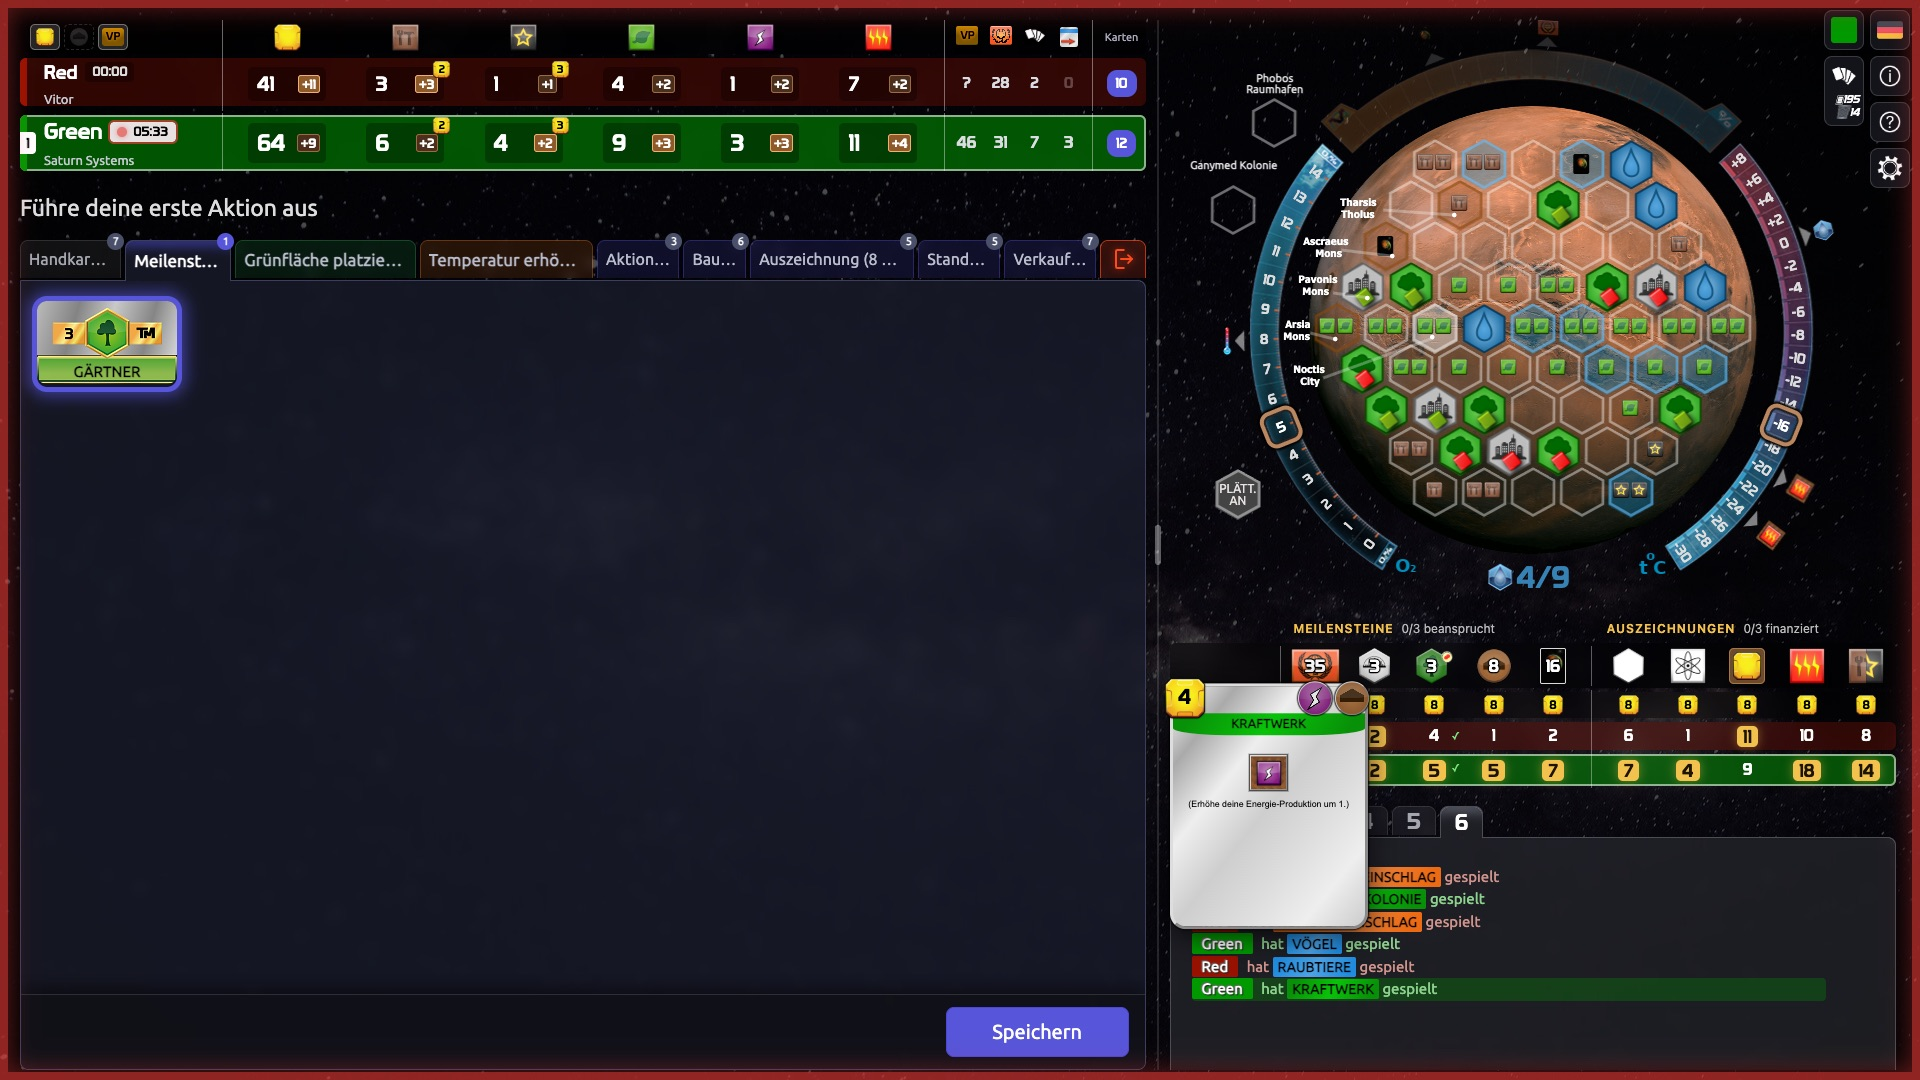
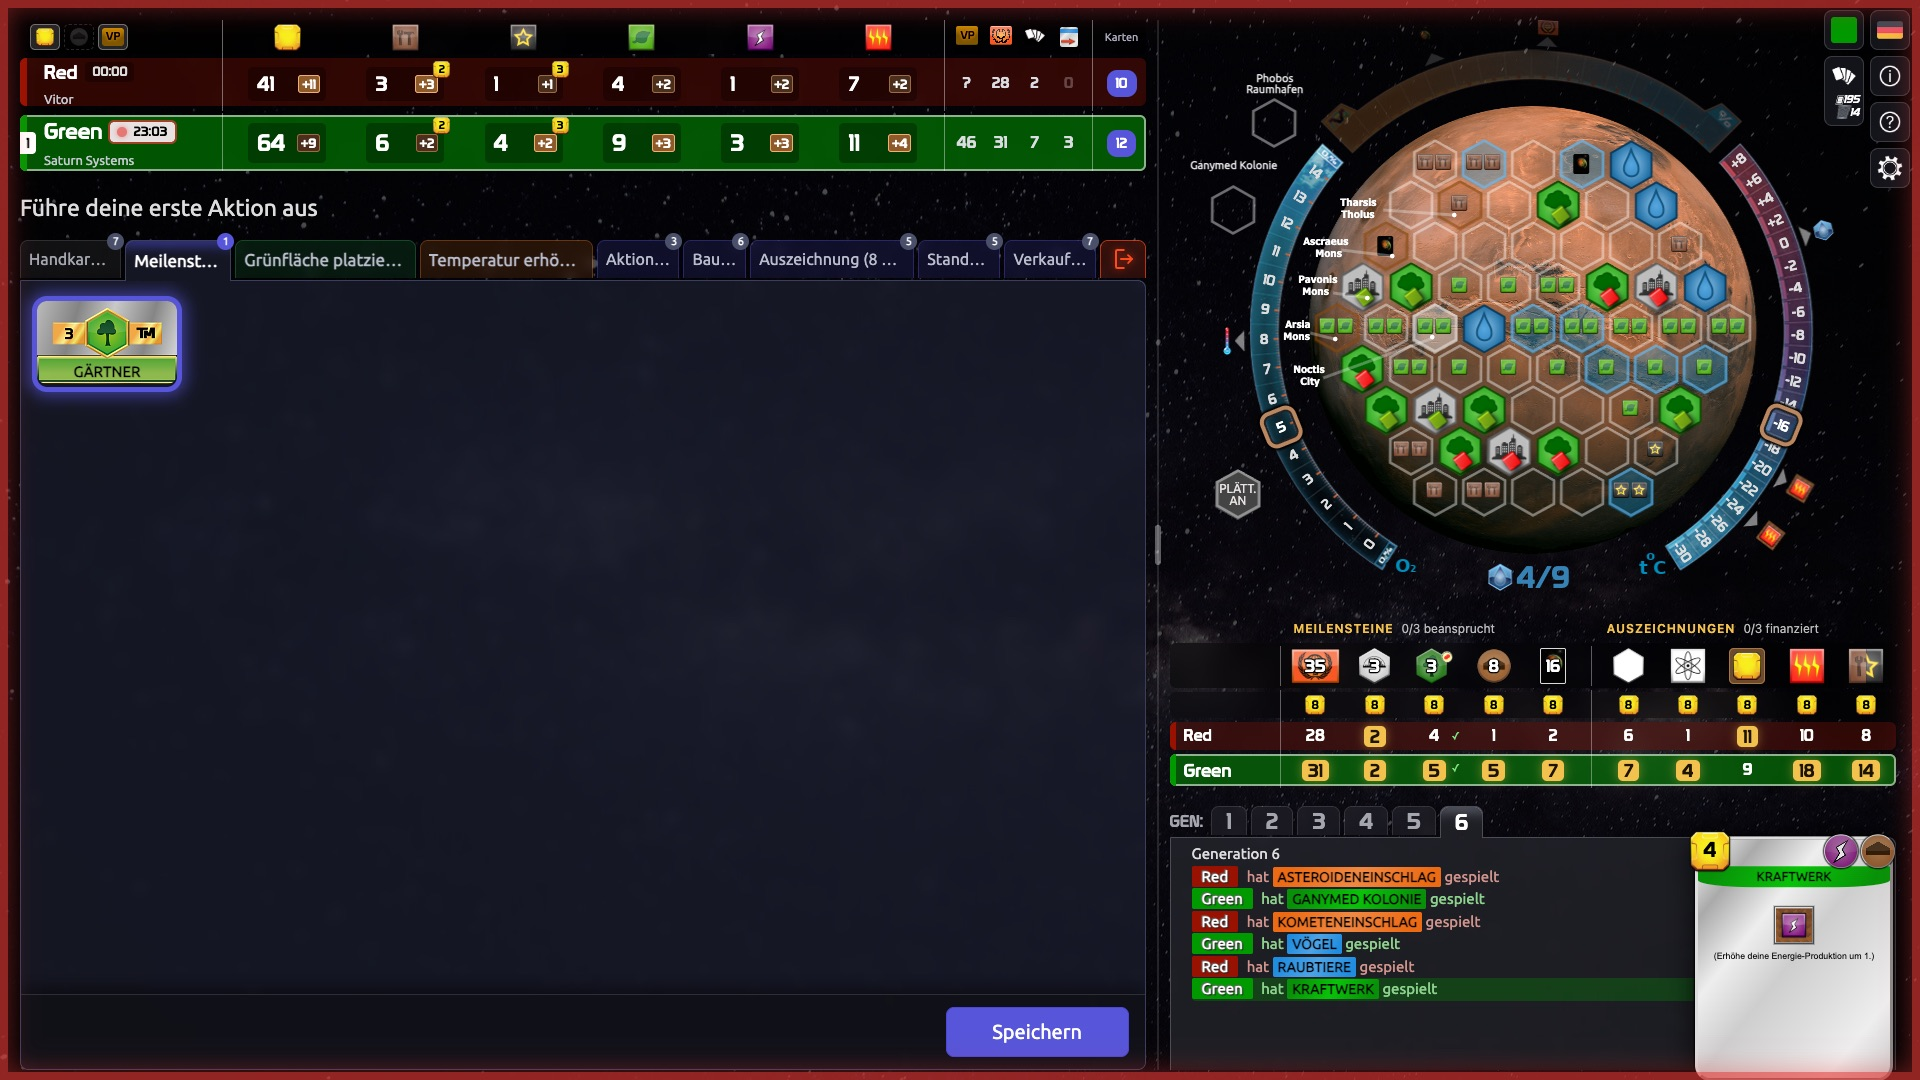
Log-Vorschau wieder am rechten Rand des Logs statt oben links
Seit CardPanel ein Teleport als Wurzel hat, kam die Position (style) nicht mehr am Panel an. Jetzt per inheritAttrs:false
und v-bind="$attrs" durchgereicht, mit Test. Vertikal mittig im sichtbaren Teil des Logs. README-Screenshot erneuert.

Claude-Session: https://claude.ai/code/session_01C1oybEKnToC6Vw4kK29Pku

Changed region(s): [[0.5938, 0.6111, 0.7188, 0.8861], [0.875, 0.7639, 1.0, 1.0]]

diff --git a/tests/client/components/logpanel/CardPanel.spec.ts b/tests/client/components/logpanel/CardPanel.spec.ts
@@ -4,6 +4,8 @@ import {globalConfig} from '../getLocalVue';
 import CardPanel from '@/client/components/logpanel/CardPanel.vue';
 import {LogMessage} from '@/common/logs/LogMessage';
 import {LogMessageType} from '@/common/logs/LogMessageType';
+import {LogMessageDataType} from '@/common/logs/LogMessageDataType';
+import {CardName} from '@/common/cards/CardName';
 
 describe('CardPanel', () => {
   it('mounts without errors', () => {
@@ -15,5 +17,25 @@ describe('CardPanel', () => {
       },
     });
     expect(wrapper.exists()).to.be.true;
+  });
+});
+
+describe('CardPanel attributes', () => {
+  // Die Wurzel ist ein Teleport: die Position der Hover-Vorschau (style) muss trotzdem am Panel landen
+  it('passes style to the panel', () => {
+    const wrapper = shallowMount(CardPanel, {
+      ...globalConfig,
+      // Teleport-Inhalt an Ort und Stelle rendern, sonst ist das Panel nicht auffindbar
+      global: {...globalConfig.global, stubs: {teleport: true}},
+      props: {
+        message: new LogMessage(LogMessageType.DEFAULT, '${0}', [{type: LogMessageDataType.CARD, value: CardName.POWER_PLANT}]),
+        players: [],
+        floating: true,
+      },
+      attrs: {style: 'top: 12px; right: 34px;'},
+    });
+    const panel = wrapper.find('.card-panel');
+    expect(panel.attributes('style')).to.contain('top: 12px');
+    expect(panel.attributes('style')).to.contain('right: 34px');
   });
 });

diff --git a/src/client/components/logpanel/CardPanel.vue b/src/client/components/logpanel/CardPanel.vue
@@ -1,7 +1,8 @@
 <template>
   <!-- Modal an body hängen: im Log (eigener Stacking-Context) läge es sonst unter den Icons oben rechts -->
   <Teleport to="body" :disabled="!modal">
-  <div :class="['card-panel', {'card-panel--floating': floating, 'card-panel--modal': modal}]" v-if="message !== undefined && show">
+  <!-- Wurzel ist das Teleport, deshalb landen Attribute (z. B. die Position der Hover-Vorschau als style) nicht von selbst hier -->
+  <div :class="['card-panel', {'card-panel--floating': floating, 'card-panel--modal': modal}]" v-bind="$attrs" v-if="message !== undefined && show">
     <!-- Hover-Vorschau schließt sich beim Verlassen der Zeile selbst, braucht keinen Button -->
     <AppButton v-if="!floating" size="big" type="close" :disableOnServerBusy="false" @click="hideMe" align="right"/>
     <div id="log_panel_card" class="cardbox" v-for="name in cards" :key="name">
@@ -34,6 +35,8 @@ import {logMessageCards, logMessageColonies, logMessageGlobalEvents} from '@/cli
 
 export default defineComponent({
   name: 'LogPanel',
+  // Attribute gibt das Template selbst an das Panel weiter (Teleport als Wurzel)
+  inheritAttrs: false,
   props: {
     message: {
       type: Object as () => LogMessage,

diff --git a/src/client/components/logpanel/LogPanel.vue b/src/client/components/logpanel/LogPanel.vue
@@ -122,8 +122,11 @@ export default defineComponent({
       // (position: fixed), damit sie nicht vom Spalten-Overflow abgeschnitten wird
       const rowElement = event.currentTarget as HTMLElement;
       const panel = (rowElement.closest('.log-panel') ?? rowElement).getBoundingClientRect();
+      // Mitte des sichtbaren Teils: ragt das Log unten aus dem Fenster, würde die Karte sonst mit abgeschnitten
+      const visibleTop = Math.max(panel.top, 0);
+      const visibleBottom = Math.min(panel.bottom, window.innerHeight);
       this.typedRefs.messageInspector.preview(message, {
-        top: panel.top + panel.height / 2,
+        top: (visibleTop + visibleBottom) / 2,
         right: window.innerWidth - panel.right + LOG_PREVIEW_INSET,
       });
     },
